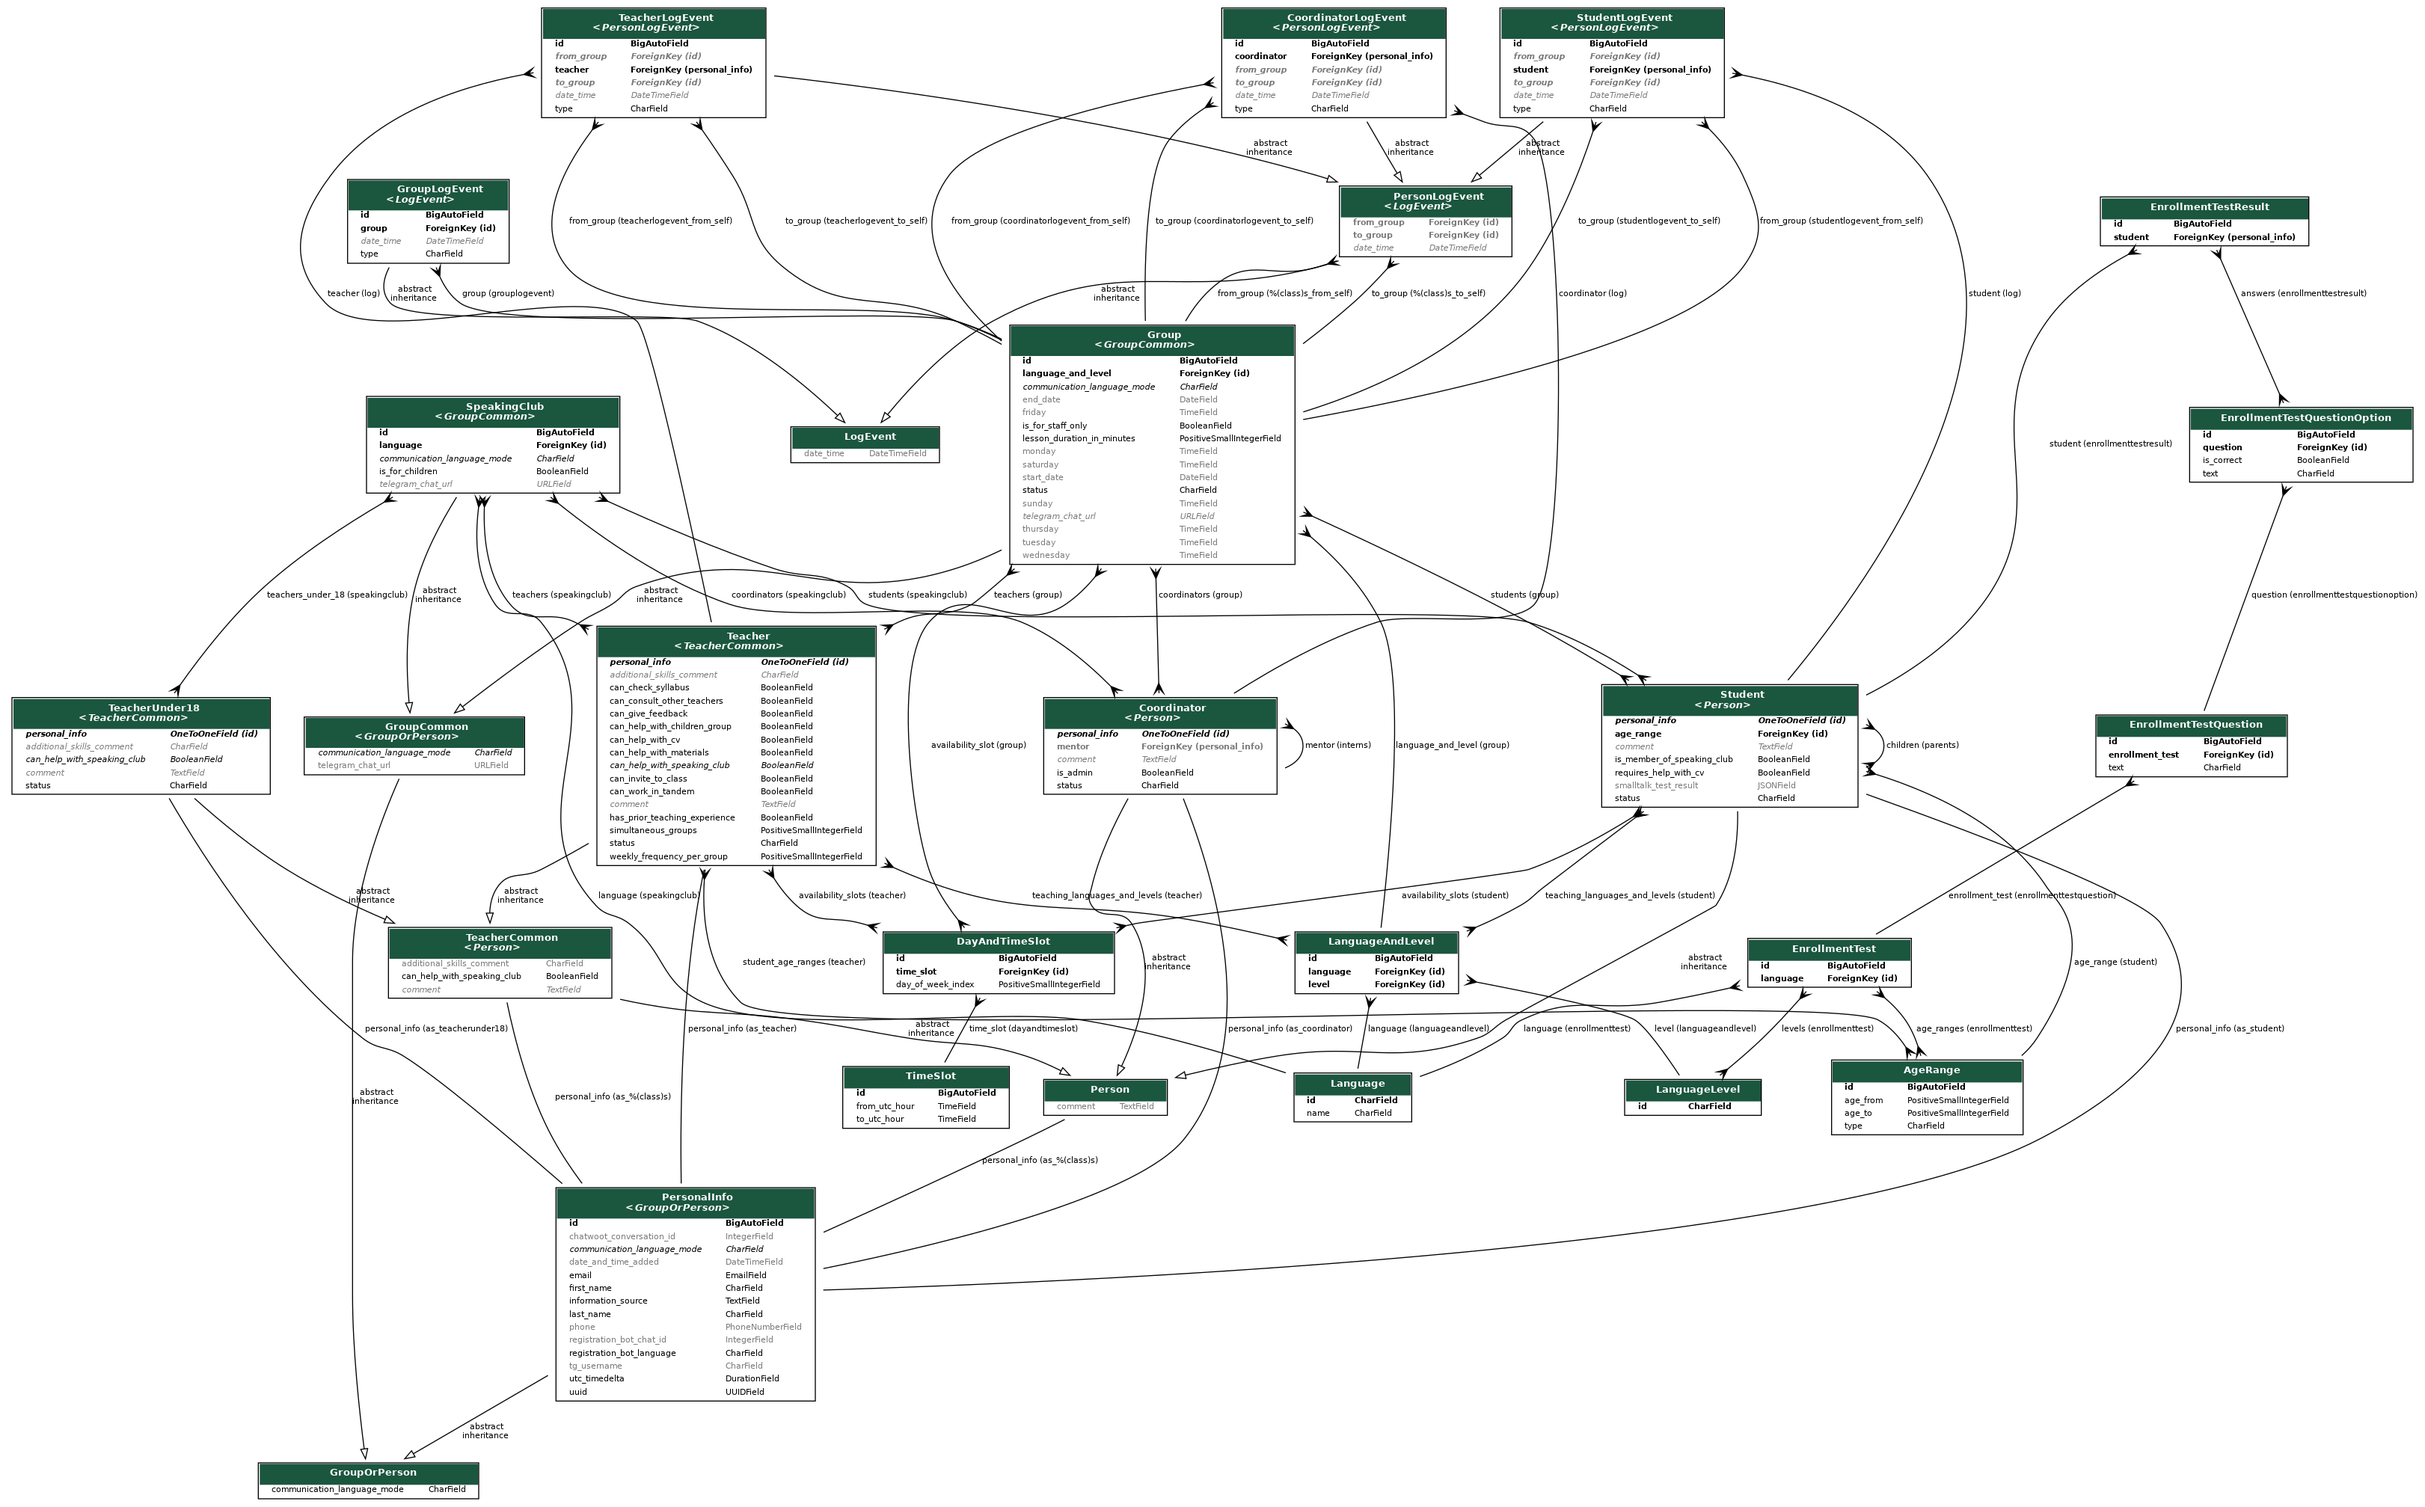
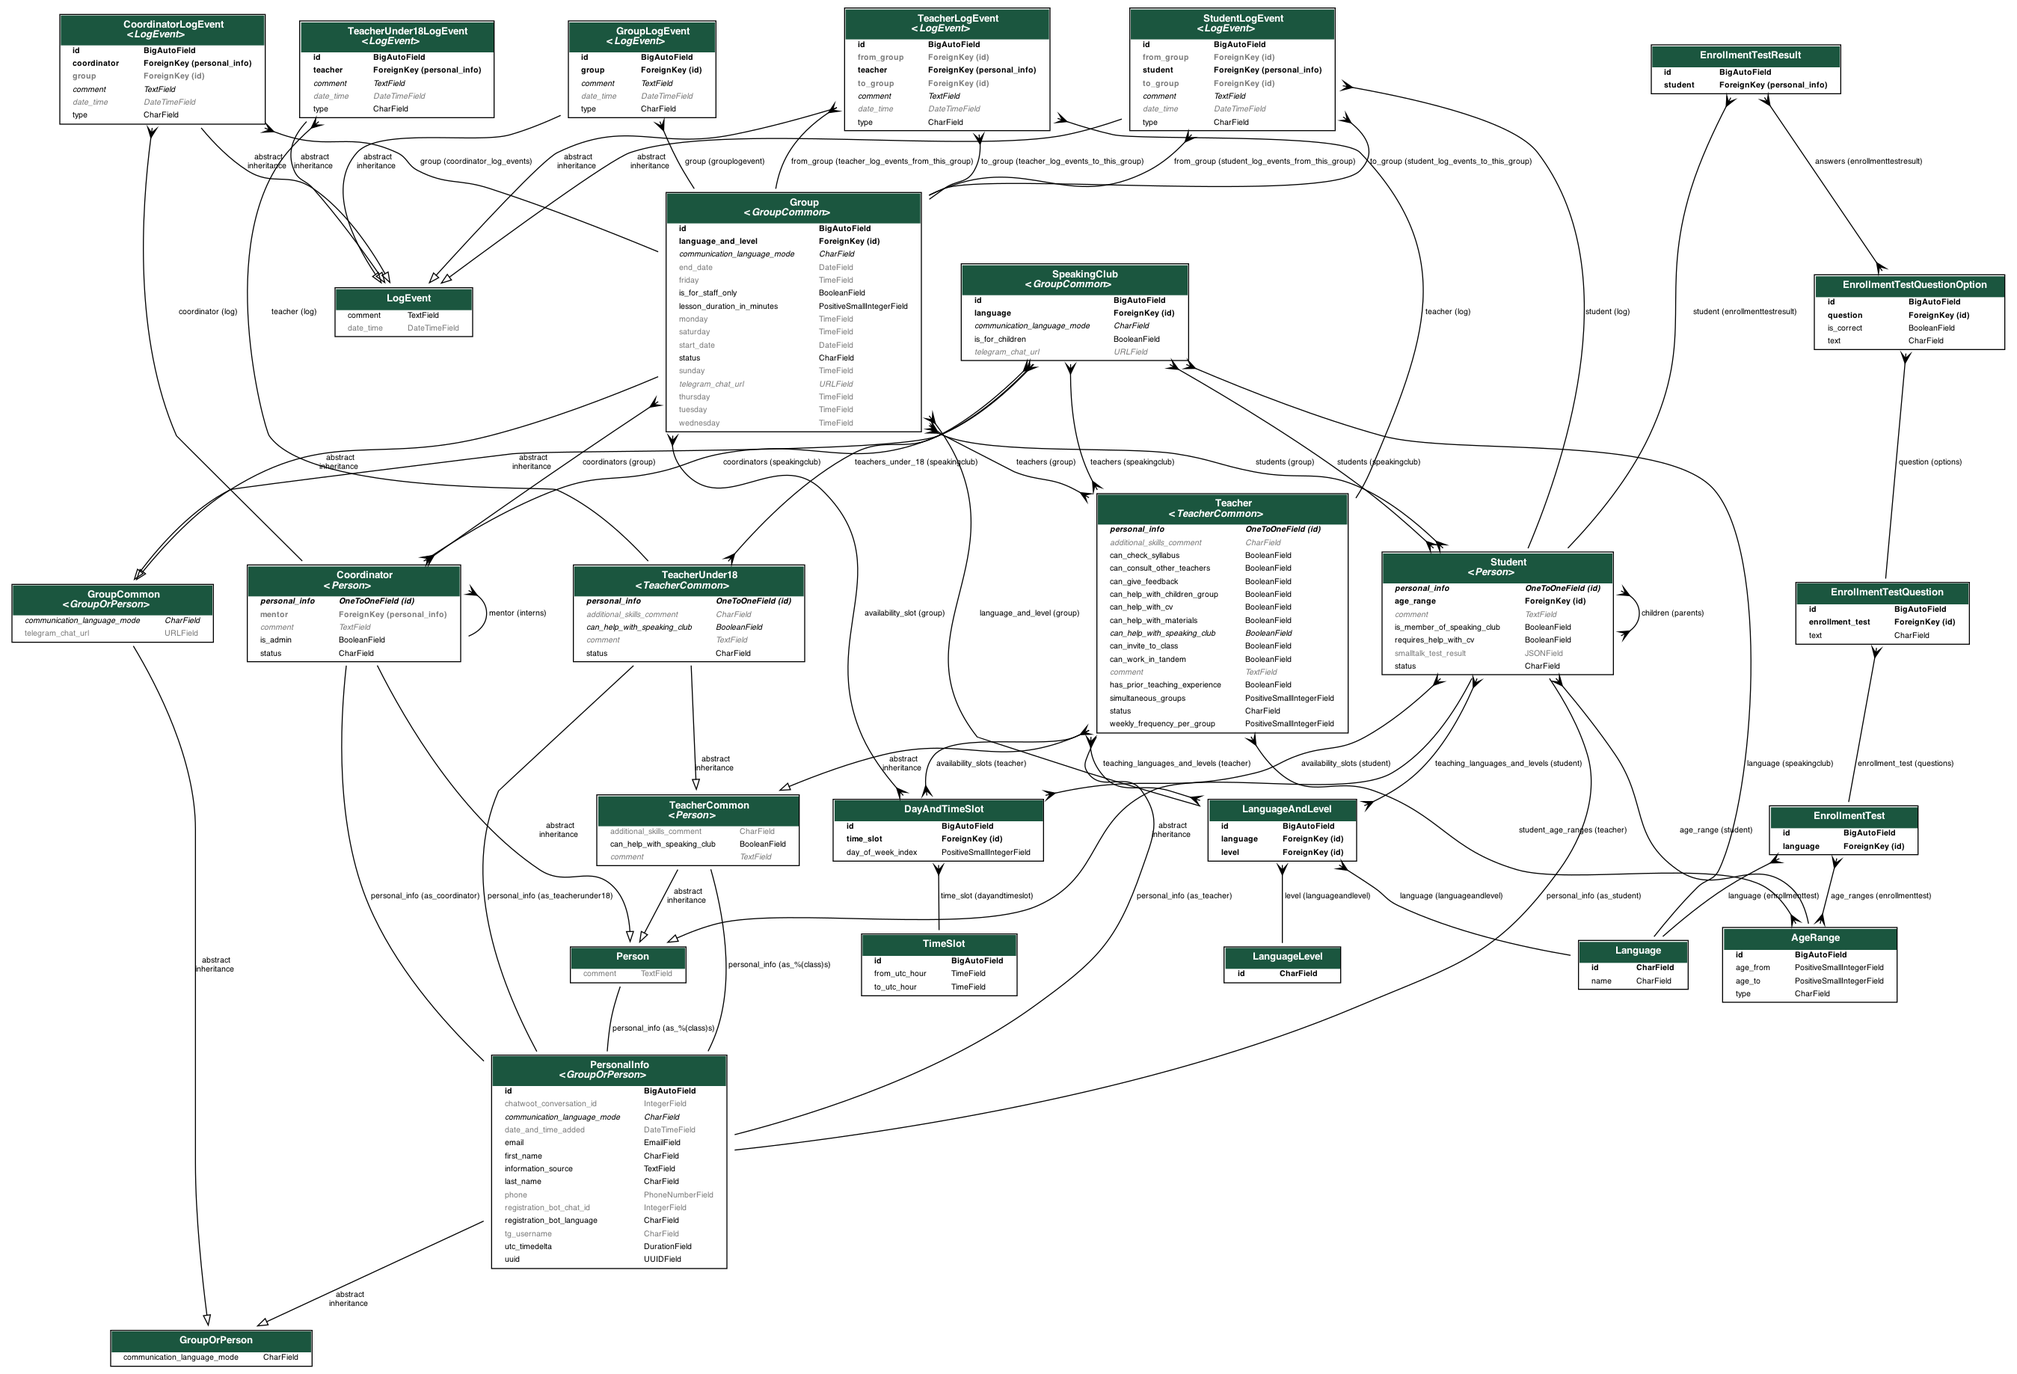
Enrollment test API + minor model tweaks (#40)
Resolves #29
Minor tweaks to the models include adding `related_name` to some
`ForeignKey`s.

diff --git a/api/models/enrollment_tests.py b/api/models/enrollment_tests.py
@@ -1,8 +1,8 @@
 from django.db import models
 
 from api.models.age_ranges import AgeRange
-from api.models.constants import DEFAULT_CHAR_FIELD_MAX_LEN
-from api.models.languages_levels import Language, LanguageLevel
+from api.models.constants import DEFAULT_CHAR_FIELD_MAX_LEN, LEVEL_BY_PERCENTAGE_OF_CORRECT_ANSWERS
+from api.models.languages_levels import Language
 from api.models.people import Student
 
 
@@ -17,28 +17,23 @@ class EnrollmentTest(models.Model):
         "Leave blank for the test to be shown to all ages.",
     )
     language = models.ForeignKey(Language, on_delete=models.CASCADE)
-    levels = models.ManyToManyField(
-        LanguageLevel,
-        blank=True,
-        help_text="level(s) of the language this test was designed for. "
-        "Leave blank for the test to be shown for all levels.",
-    )
 
     def __str__(self) -> str:
-        age_ranges, levels = self.age_ranges.all(), self.levels.all()
+        age_ranges = self.age_ranges.all()
         ages_text = (
             ", ".join(f"{age_range.age_from}-{age_range.age_to}" for age_range in age_ranges)
             if age_ranges
             else "all ages"
         )
-        levels_text = ", ".join(level.id for level in levels) if levels else "all levels"
-        return f"{self.language} ({levels_text}, {ages_text})"
+        return f"{self.language} ({ages_text})"
 
 
 class EnrollmentTestQuestion(models.Model):
     """Model for a question in a 'written' test given to the student at registration."""
 
-    enrollment_test = models.ForeignKey(EnrollmentTest, on_delete=models.CASCADE)
+    enrollment_test = models.ForeignKey(
+        EnrollmentTest, on_delete=models.CASCADE, related_name="questions"
+    )
     text = models.CharField(max_length=DEFAULT_CHAR_FIELD_MAX_LEN)
 
     class Meta:
@@ -56,7 +51,9 @@ class EnrollmentTestQuestion(models.Model):
 class EnrollmentTestQuestionOption(models.Model):
     """Model for a possible answer to a question in a 'written' test."""
 
-    question = models.ForeignKey(EnrollmentTestQuestion, on_delete=models.CASCADE)
+    question = models.ForeignKey(
+        EnrollmentTestQuestion, on_delete=models.CASCADE, related_name="options"
+    )
     text = models.CharField(max_length=50)
     is_correct = models.BooleanField()
 
@@ -80,3 +77,15 @@ class EnrollmentTestResult(models.Model):
 
     def __str__(self) -> str:
         return f"Test results of {self.student}"
+
+    @property
+    def resulting_level(self) -> str:
+        """Returns language level of the student based on amount of correct answers."""
+        correct_answers = self.answers.filter(is_correct=True).count()
+        total_answers = self.answers.count()
+        percentage = correct_answers / total_answers * 100
+        closest_percentage = min(
+            LEVEL_BY_PERCENTAGE_OF_CORRECT_ANSWERS, key=lambda x: abs(x - percentage)
+        )
+
+        return LEVEL_BY_PERCENTAGE_OF_CORRECT_ANSWERS[closest_percentage]

diff --git a/tests/tests_api/test_enrollment_test.py b/tests/tests_api/test_enrollment_test.py
@@ -1,0 +1,57 @@
+from model_bakery import baker
+from rest_framework import status
+
+from api.models import EnrollmentTest, EnrollmentTestQuestionOption, Student
+
+
+def test_get_enrollment_test(api_client):
+    """Test passing enrollment test."""
+    test = baker.make(EnrollmentTest, make_m2m=True)
+    response = api_client.get(f"/api/enrollment_test/?language={test.language.id}")
+    assert response.status_code == status.HTTP_200_OK
+    assert response.json() == [
+        {
+            "id": test.id,
+            "language": test.language.id,
+            "age_ranges": [age_range.id for age_range in test.age_ranges.all()],
+            "questions": [
+                {
+                    "id": question.id,
+                    "text": question.text,
+                    "options": [
+                        {
+                            "id": option.id,
+                            "text": option.text,
+                        }
+                        for option in question.options.all()
+                    ],
+                }
+                for question in test.questions.all()
+            ],
+        }
+    ]
+
+
+def test_create_student_enrollment_test_result(api_client):
+    """Test passing enrollment test."""
+    test = baker.make_recipe("tests.enrollment_test")
+    correct_answers_ids = list(
+        EnrollmentTestQuestionOption.objects.filter(
+            question__enrollment_test=test, is_correct=True
+        ).values_list("id", flat=True)
+    )
+    student = baker.make(Student, make_m2m=True)
+    response = api_client.post(
+        "/api/enrollment_test_result/",
+        data={
+            "student": student.personal_info.id,
+            "enrollment_test": test.id,
+            "answers": correct_answers_ids,
+        },
+    )
+    assert response.status_code == status.HTTP_201_CREATED
+    assert response.json() == {
+        "student": student.personal_info.id,
+        "answers": correct_answers_ids,
+        "resulting_level": "B2",
+    }

diff --git a/api/migrations/0001_initial.py b/api/migrations/0001_initial.py
@@ -1,4 +1,4 @@
-# Generated by Django 4.2 on 2023-04-05 11:30
+# Generated by Django 4.1.7 on 2023-04-07 12:40
 
 import datetime
 from django.db import migrations, models
@@ -897,14 +897,18 @@ class Migration(migrations.Migration):
             model_name="enrollmenttestquestionoption",
             name="question",
             field=models.ForeignKey(
-                on_delete=django.db.models.deletion.CASCADE, to="api.enrollmenttestquestion"
+                on_delete=django.db.models.deletion.CASCADE,
+                related_name="options",
+                to="api.enrollmenttestquestion",
             ),
         ),
         migrations.AddField(
             model_name="enrollmenttestquestion",
             name="enrollment_test",
             field=models.ForeignKey(
-                on_delete=django.db.models.deletion.CASCADE, to="api.enrollmenttest"
+                on_delete=django.db.models.deletion.CASCADE,
+                related_name="questions",
+                to="api.enrollmenttest",
             ),
         ),
         migrations.AddField(
@@ -921,15 +925,6 @@ class Migration(migrations.Migration):
             name="language",
             field=models.ForeignKey(
                 on_delete=django.db.models.deletion.CASCADE, to="api.language"
-            ),
-        ),
-        migrations.AddField(
-            model_name="enrollmenttest",
-            name="levels",
-            field=models.ManyToManyField(
-                blank=True,
-                help_text="level(s) of the language this test was designed for. Leave blank for the test to be shown for all levels.",
-                to="api.languagelevel",
             ),
         ),
         migrations.AddField(

diff --git a/api/serializers/enrollment_test.py b/api/serializers/enrollment_test.py
@@ -1,0 +1,52 @@
+from rest_framework import serializers
+
+from api.models import (
+    EnrollmentTest,
+    EnrollmentTestQuestion,
+    EnrollmentTestQuestionOption,
+    EnrollmentTestResult,
+)
+
+
+class EnrollmentTestQuestionOptionSerializer(
+    serializers.ModelSerializer[EnrollmentTestQuestionOption]
+):
+    class Meta:
+        model = EnrollmentTestQuestionOption
+        fields = (
+            "id",
+            "text",
+        )
+
+
+class EnrollmentTestQuestionSerializer(serializers.ModelSerializer[EnrollmentTestQuestion]):
+    options = EnrollmentTestQuestionOptionSerializer(many=True, read_only=True)
+
+    class Meta:
+        model = EnrollmentTestQuestion
+        fields = (
+            "id",
+            "text",
+            "options",
+        )
+
+
+class EnrollmentTestSerializer(serializers.ModelSerializer[EnrollmentTest]):
+    questions = EnrollmentTestQuestionSerializer(many=True, read_only=True)
+
+    class Meta:
+        model = EnrollmentTest
+        fields = "__all__"
+
+
+class EnrollmentTestResultCreateSerializer(serializers.ModelSerializer[EnrollmentTestResult]):
+    class Meta:
+        model = EnrollmentTestResult
+        fields = (
+            "student",
+            "answers",
+            "resulting_level",
+        )
+
+    # TODO Think about some validation, e.g. answers should be unique for each question
+    #  and should be in options for this question

diff --git a/api/urls.py b/api/urls.py
@@ -4,6 +4,8 @@ from rest_framework.routers import DefaultRouter
 from api.views import (
     AgeRangeViewSet,
     DayAndTimeSlotViewSet,
+    EnrollmentTestResultViewSet,
+    EnrollmentTestViewSet,
     LanguageAndLevelViewSet,
     PersonalInfoViewSet,
     StudentViewSet,
@@ -19,6 +21,10 @@ router.register(r"teachers_under_18", TeacherUnder18ViewSet, basename="teachers_
 router.register(r"age_ranges", AgeRangeViewSet, basename="age_ranges")
 router.register(r"languages_and_levels", LanguageAndLevelViewSet, basename="languages_and_levels")
 router.register(r"day_and_time_slots", DayAndTimeSlotViewSet, basename="day_and_time_slots")
+router.register(r"enrollment_test", EnrollmentTestViewSet, basename="enrollment_test")
+router.register(
+    r"enrollment_test_result", EnrollmentTestResultViewSet, basename="enrollment_test_result"
+)
 
 urlpatterns = [
     path("", include(router.urls)),

diff --git a/api/views/enrollment_test.py b/api/views/enrollment_test.py
@@ -1,0 +1,19 @@
+from django_filters import rest_framework as filters
+from rest_framework.mixins import CreateModelMixin
+from rest_framework.viewsets import GenericViewSet, ReadOnlyModelViewSet
+
+from api.filters import EnrollmentTestFilter
+from api.models import EnrollmentTest, EnrollmentTestResult
+from api.serializers import EnrollmentTestResultCreateSerializer, EnrollmentTestSerializer
+
+
+class EnrollmentTestViewSet(ReadOnlyModelViewSet[EnrollmentTest]):
+    queryset = EnrollmentTest.objects.all()
+    serializer_class = EnrollmentTestSerializer
+    filter_backends = (filters.DjangoFilterBackend,)
+    filterset_class = EnrollmentTestFilter
+
+
+class EnrollmentTestResultViewSet(CreateModelMixin, GenericViewSet[EnrollmentTestResult]):
+    queryset = EnrollmentTestResult.objects.all()
+    serializer_class = EnrollmentTestResultCreateSerializer

diff --git a/tests/baker_recipes.py b/tests/baker_recipes.py
@@ -1,0 +1,24 @@
+from model_bakery.recipe import Recipe, related
+
+from api.models import EnrollmentTest, EnrollmentTestQuestion, EnrollmentTestQuestionOption
+
+QUESTIONS_AMOUNT = 4
+
+questions_options = [
+    Recipe(EnrollmentTestQuestionOption, text="Option 1"),
+    Recipe(EnrollmentTestQuestionOption, text="Option 2"),
+    Recipe(EnrollmentTestQuestionOption, text="Option 3"),
+    Recipe(EnrollmentTestQuestionOption, text="Option 4", is_correct=True),
+]
+
+question = Recipe(EnrollmentTestQuestion, options=related(*questions_options))
+
+questions = [
+    Recipe(EnrollmentTestQuestion, text=f"Question {i}", options=related(*questions_options))
+    for i in range(1, QUESTIONS_AMOUNT + 1)
+]
+
+enrollment_test = Recipe(
+    EnrollmentTest,
+    questions=related(*questions),
+)

diff --git a/api/serializers/__init__.py b/api/serializers/__init__.py
@@ -1,5 +1,9 @@
 from api.serializers.age_range import AgeRangeSerializer
 from api.serializers.day_and_time_slot import DayAndTimeSlotSerializer
+from api.serializers.enrollment_test import (
+    EnrollmentTestResultCreateSerializer,
+    EnrollmentTestSerializer,
+)
 from api.serializers.language_and_level import LanguageAndLevelSerializer
 from api.serializers.personal_info import (
     PersonalInfoCheckExistenceSerializer,
@@ -24,4 +28,6 @@ __all__ = [
     "TeacherWriteSerializer",
     "TeacherUnder18ReadSerializer",
     "TeacherUnder18WriteSerializer",
+    "EnrollmentTestSerializer",
+    "EnrollmentTestResultCreateSerializer",
 ]

diff --git a/api/views/__init__.py b/api/views/__init__.py
@@ -1,5 +1,6 @@
 from api.views.age_range import AgeRangeViewSet
 from api.views.day_and_time_slot import DayAndTimeSlotViewSet
+from api.views.enrollment_test import EnrollmentTestResultViewSet, EnrollmentTestViewSet
 from api.views.language_and_level import LanguageAndLevelViewSet
 from api.views.personal_info import PersonalInfoViewSet
 from api.views.student import StudentViewSet
@@ -14,4 +15,6 @@ __all__ = [
     "StudentViewSet",
     "TeacherViewSet",
     "TeacherUnder18ViewSet",
+    "EnrollmentTestViewSet",
+    "EnrollmentTestResultViewSet",
 ]

diff --git a/api/models/constants.py b/api/models/constants.py
@@ -61,3 +61,15 @@ STUDENT_AGE_RANGES_FOR_TEACHER = {
 # TODO for now leaving these ranges the same as the ranges that students get when registering,
 #  but this is likely to change.  The children's ranges will most likely remain the same, though.
 STUDENT_AGE_RANGES_FOR_MATCHING = STUDENT_AGE_RANGES.copy()
+
+
+ENROLLMENT_TEST_PASS_THRESHOLD = 0.7
+
+# FIXME Just an example, subject to change,
+#  and also probably levels should be TextChoices
+LEVEL_BY_PERCENTAGE_OF_CORRECT_ANSWERS = {
+    10: "A1",
+    20: "A2",
+    40: "B1",
+    60: "B2",
+}

diff --git a/django_webapps/settings_sample.py b/django_webapps/settings_sample.py
@@ -145,4 +145,6 @@ SPECTACULAR_SETTINGS = {
 #  this setting will be ignored.
 from rest_framework import viewsets  # noqa
 
-django_stubs_ext.monkeypatch(extra_classes=[viewsets.ModelViewSet, viewsets.ReadOnlyModelViewSet])
+django_stubs_ext.monkeypatch(
+    extra_classes=[viewsets.ModelViewSet, viewsets.ReadOnlyModelViewSet, viewsets.GenericViewSet]
+)

diff --git a/api/filters/__init__.py b/api/filters/__init__.py
@@ -1,7 +1,9 @@
 from api.filters.age_range import AgeRangeFilter
+from api.filters.enrollment_test import EnrollmentTestFilter
 from api.filters.language_and_level import LanguageAndLevelFilter
 
 __all__ = [
     "AgeRangeFilter",
     "LanguageAndLevelFilter",
+    "EnrollmentTestFilter",
 ]
